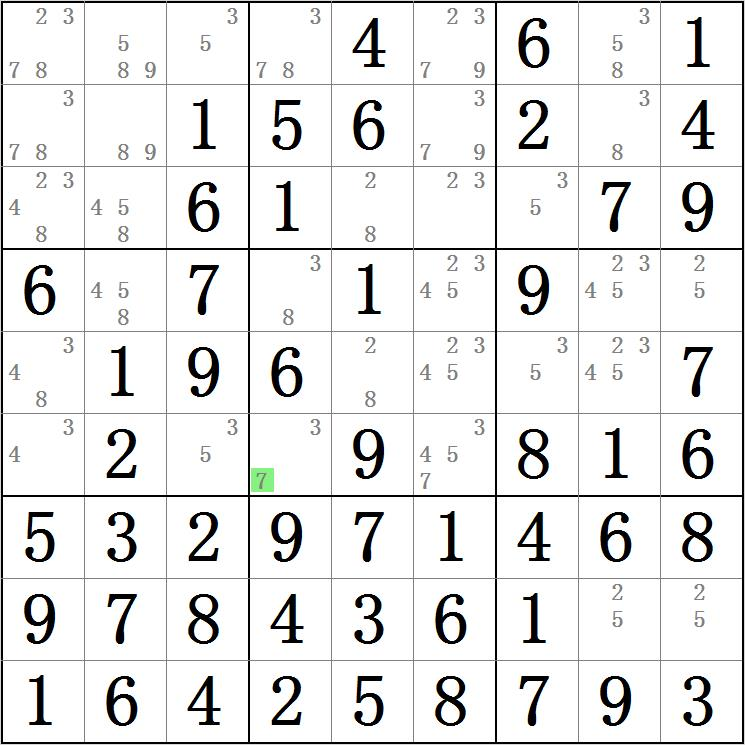
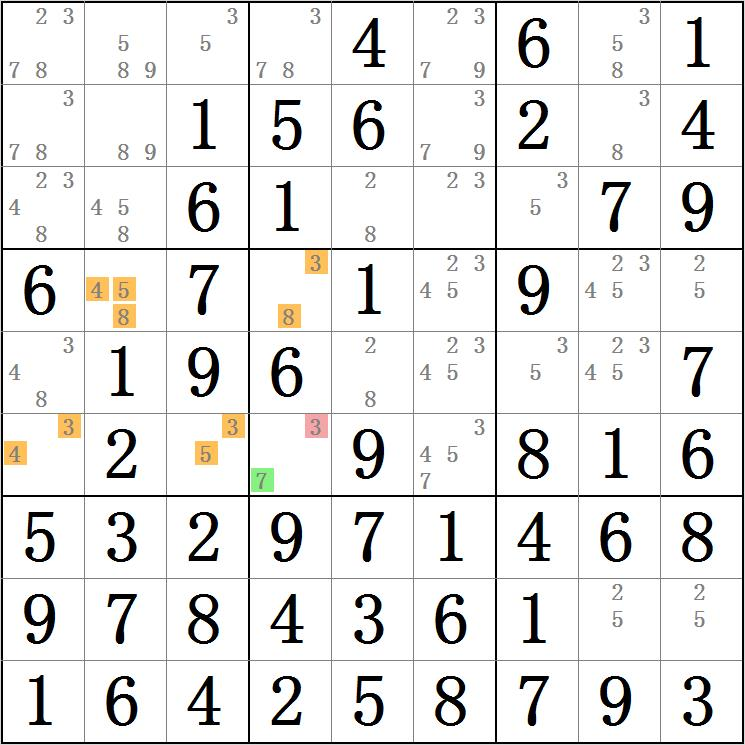
优化提示数绘制

diff --git a/Sudoku.Tools/IncompleteVWXYZWingHandler.cs b/Sudoku.Tools/IncompleteVWXYZWingHandler.cs
@@ -1,8 +1,7 @@
 using Sudoku.Core;
-using System;
+using Sudoku.Core.Model;
 using System.Collections.Generic;
 using System.Linq;
-using Sudoku.Core.Model;
 
 namespace Sudoku.Tools
 {
@@ -28,8 +27,8 @@ namespace Sudoku.Tools
                 var filter = (from a in relatedCell
                               join b in relatedCell on 1 equals 1
                               join c in relatedCell on 1 equals 1
-                              join d         in relatedCell on 1 equals 1
-                              let indexs = new List<int> { a.Index, b.Index, c.Index,d.Index, checkCell.Index }
+                              join d in relatedCell on 1 equals 1
+                              let indexs = new List<int> { a.Index, b.Index, c.Index, d.Index, checkCell.Index }
                               let arest = a.RestList
                               let brest = b.RestList
                               let crest = c.RestList
@@ -38,32 +37,60 @@ namespace Sudoku.Tools
                               where arest.Except(checkCellRest).First() == brest.Except(checkCellRest).First()
                                     && arest.Except(checkCellRest).First() == crest.Except(checkCellRest).First()
                                     && arest.Except(checkCellRest).First() == dcrest.Except(checkCellRest).First()
-                                    && a.Index < b.Index && b.Index < c.Index&&c.Index<d.Index
-                              select new { a, b, c,d, removeValue, indexs }).ToList();
+                                    && a.Index < b.Index && b.Index < c.Index && c.Index < d.Index
+                              select new { a, b, c, d, removeValue, indexs }).ToList();
                 foreach (var item in filter)
                 {
                     var a = item.a;
                     var b = item.b;
                     var c = item.c;
                     var d = item.d;
-                    var publicIndexs = qSudoku.GetPublicUnsetAreaIndexs(a,b,c,d).ToList();
+                    var publicIndexs = qSudoku.GetPublicUnsetAreaIndexs(a, b, c, d).ToList();
                     var intersectValue = item.removeValue;
-             
+                    var message = G.MergeLocationDesc(checkCell, a, b, c, d);
+                    var message1 = G.MergeLocationDesc(a, b, c, d);
                     foreach (var index in publicIndexs)
                     {
                         if (qSudoku.GetRest(index).Contains(intersectValue))
                         {
                             var cell = new NegativeCell(index, intersectValue, qSudoku);
+                            cell.drawCells.AddRange(GetDrawPossibleCell(a.RestList, a));
+                            cell.drawCells.AddRange(GetDrawPossibleCell(b.RestList, b));
+                            cell.drawCells.AddRange(GetDrawPossibleCell(c.RestList, c));
+                            cell.drawCells.AddRange(GetDrawPossibleCell(d.RestList, d));
+                            cell.drawCells.AddRange(GetDrawPossibleCell(checkCell.RestList, checkCell));
+                            cell.drawCells.Add(cell);
+                            var checkCellRest1 = checkCellRest.ToList();
+                            checkCellRest1.Add(intersectValue);
+                            checkCellRest1.Sort();
+                            cell.SolveMessages = new List<SolveMessage>
+                            {
+                                message,"的候选数满足VZ,WZ,XZ,YZ,VWXY形式。","其中Z为"+intersectValue,"且"+checkCell.Location+"位于",message1,"共同相关格上,"
+                               ,message1,"的其余共同相关格不包含候选数"+intersectValue+"\t\t\r\n"
+                            };
                             cells.Add(cell);
                         }
-          
+
                     }
 
                     var list1 = qSudoku.AllUnSetCells
                         .Where(c => publicIndexs.Contains(c.Index) && c.RestList.Contains(intersectValue)).ToList();
                     if (list1.Count > 1)
                     {
-                        cells.Add(new NegativeIndexsGroup(list1.Select(c => c.Index).ToList(), intersectValue, qSudoku));
+                        var group = new NegativeIndexsGroup(list1.Select(cellInfo => cellInfo.Index).ToList(), intersectValue,
+                            qSudoku);
+                        group.drawCells.AddRange(GetDrawPossibleCell(a.RestList, a));
+                        group.drawCells.AddRange(GetDrawPossibleCell(b.RestList, b));
+                        group.drawCells.AddRange(GetDrawPossibleCell(c.RestList, c));
+                        group.drawCells.AddRange(GetDrawPossibleCell(d.RestList, d));
+                        group.drawCells.AddRange(GetDrawPossibleCell(checkCell.RestList, checkCell));
+                        group.drawCells.AddRange(GetDrawNegativeCell(intersectValue, list1));
+                        group.SolveMessages = new List<SolveMessage>
+                        {
+                            message,"的候选数满足VZ,WZ,XZ,YZ,VWXY形式。","其中Z为"+intersectValue+"\t\t\r\n","且"+checkCell.Location+"位于",message1,"共同相关格上,"
+                            ,message1,"的其余共同相关格不包含候选数"+intersectValue+"\t\t\r\n"
+                        };
+                        cells.Add(group);
                     }
 
                 }
@@ -71,7 +98,7 @@ namespace Sudoku.Tools
             }
 
 
-            
+
             return cells;
         }
 

diff --git a/Sudoku.Tools/IncompleteWXYZWingHandler.cs b/Sudoku.Tools/IncompleteWXYZWingHandler.cs
@@ -1,8 +1,7 @@
 using Sudoku.Core;
-using System;
+using Sudoku.Core.Model;
 using System.Collections.Generic;
 using System.Linq;
-using Sudoku.Core.Model;
 
 namespace Sudoku.Tools
 {
@@ -33,17 +32,35 @@ namespace Sudoku.Tools
                               select new { a, b, c, removeValue, indexs }).ToList();
                 foreach (var item in filter)
                 {
+                    var a = item.a;
+                    var b = item.b;
+                    var c = item.c;
+
 
                     var publicIndexs = item.a.RelatedUnsetIndexs
                         .Intersect(item.b.RelatedUnsetIndexs)
                         .Intersect(item.c.RelatedUnsetIndexs).ToList();
                     var intersectValue = item.removeValue;
-
+                    var message = G.MergeLocationDesc(checkCell, a, b, c);
+                    var message1 = G.MergeLocationDesc(a, b, c);
                     foreach (var index in publicIndexs)
                     {
                         if (qSudoku.GetRest(index).Contains(intersectValue))
                         {
                             var cell = new NegativeCell(index, intersectValue, qSudoku);
+                            cell.drawCells.AddRange(GetDrawPossibleCell(a.RestList, a));
+                            cell.drawCells.AddRange(GetDrawPossibleCell(b.RestList, b));
+                            cell.drawCells.AddRange(GetDrawPossibleCell(c.RestList, c));
+                            cell.drawCells.AddRange(GetDrawPossibleCell(checkCell.RestList, checkCell));
+                            cell.drawCells.Add(cell);
+                            var checkCellRest1 = checkCellRest.ToList();
+                            checkCellRest1.Add(intersectValue);
+                            checkCellRest1.Sort();
+                            cell.SolveMessages = new List<SolveMessage>
+                            {
+                                message,"的候选数满足WZ,XZ,YZ,WXY形式。","其中Z为"+intersectValue,"且"+checkCell.Location+"位于",message1,"共同相关格上,"
+                                ,message1,"的其余共同相关格不包含候选数"+intersectValue+"\t\t\r\n"
+                            };
                             cells.Add(cell);
                         }
 
@@ -52,7 +69,20 @@ namespace Sudoku.Tools
                         .Where(c => publicIndexs.Contains(c.Index) && c.RestList.Contains(intersectValue)).ToList();
                     if (list1.Count > 1)
                     {
-                        cells.Add(new NegativeIndexsGroup(list1.Select(c => c.Index).ToList(), intersectValue, qSudoku));
+                        var group = new NegativeIndexsGroup(list1.Select(cellInfo => cellInfo.Index).ToList(), intersectValue,
+                            qSudoku);
+                        group.drawCells.AddRange(GetDrawPossibleCell(a.RestList, a));
+                        group.drawCells.AddRange(GetDrawPossibleCell(b.RestList, b));
+                        group.drawCells.AddRange(GetDrawPossibleCell(c.RestList, c));
+
+                        group.drawCells.AddRange(GetDrawPossibleCell(checkCell.RestList, checkCell));
+                        group.drawCells.AddRange(GetDrawNegativeCell(intersectValue, list1));
+                        group.SolveMessages = new List<SolveMessage>
+                        {
+                            message,"的候选数满足VZ,WZ,XZ,YZ,VWXY形式。","其中Z为"+intersectValue+"\t\t\r\n","且"+checkCell.Location+"位于",message1,"共同相关格上,"
+                            ,message1,"的其余共同相关格不包含候选数"+intersectValue+"\t\t\r\n"
+                        };
+                        cells.Add(group);
                     }
                 }
 
